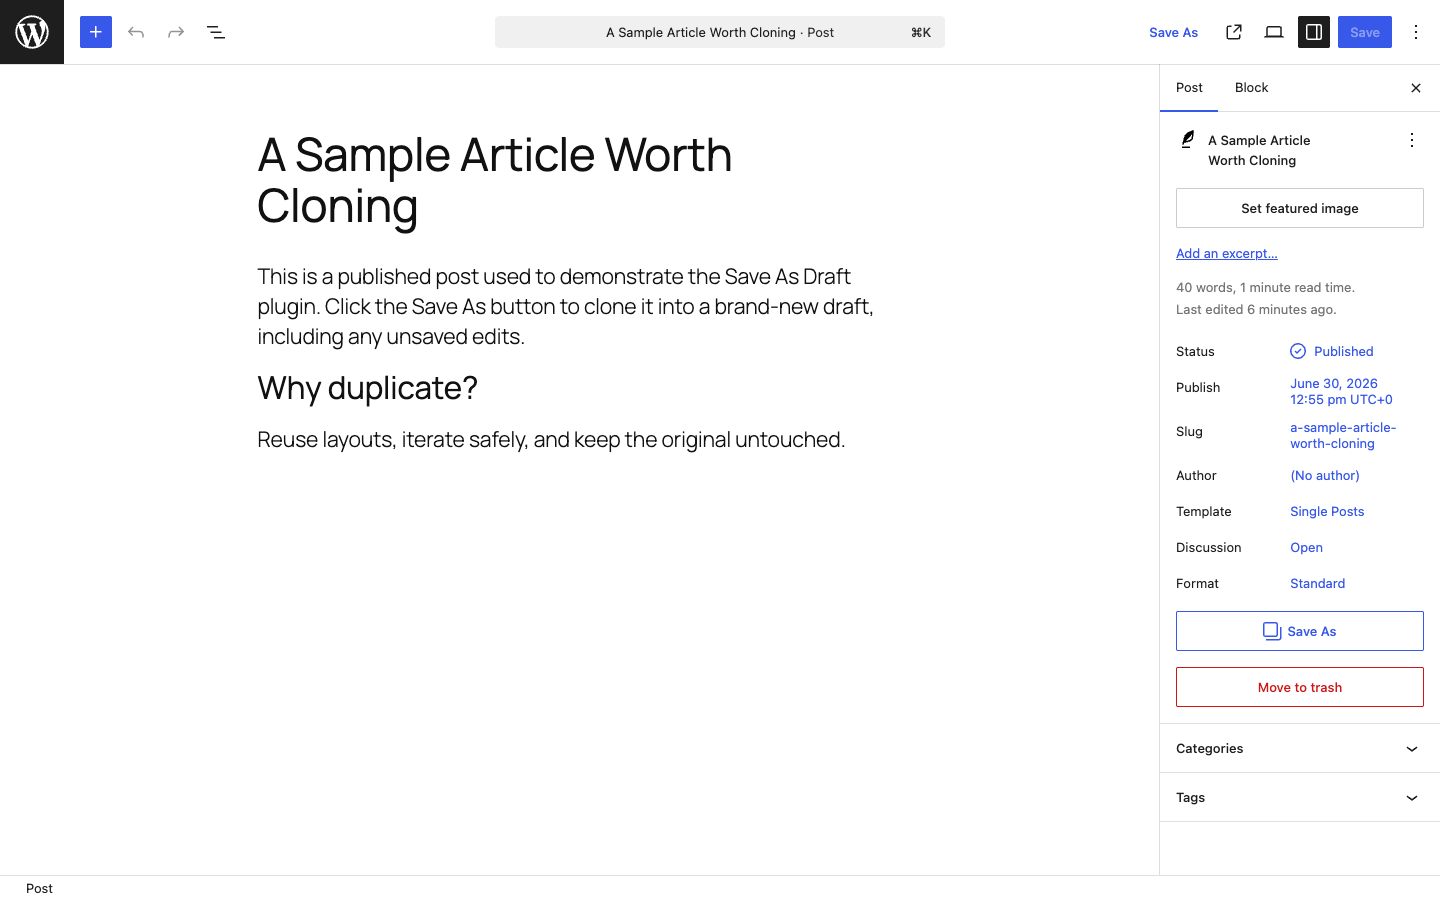
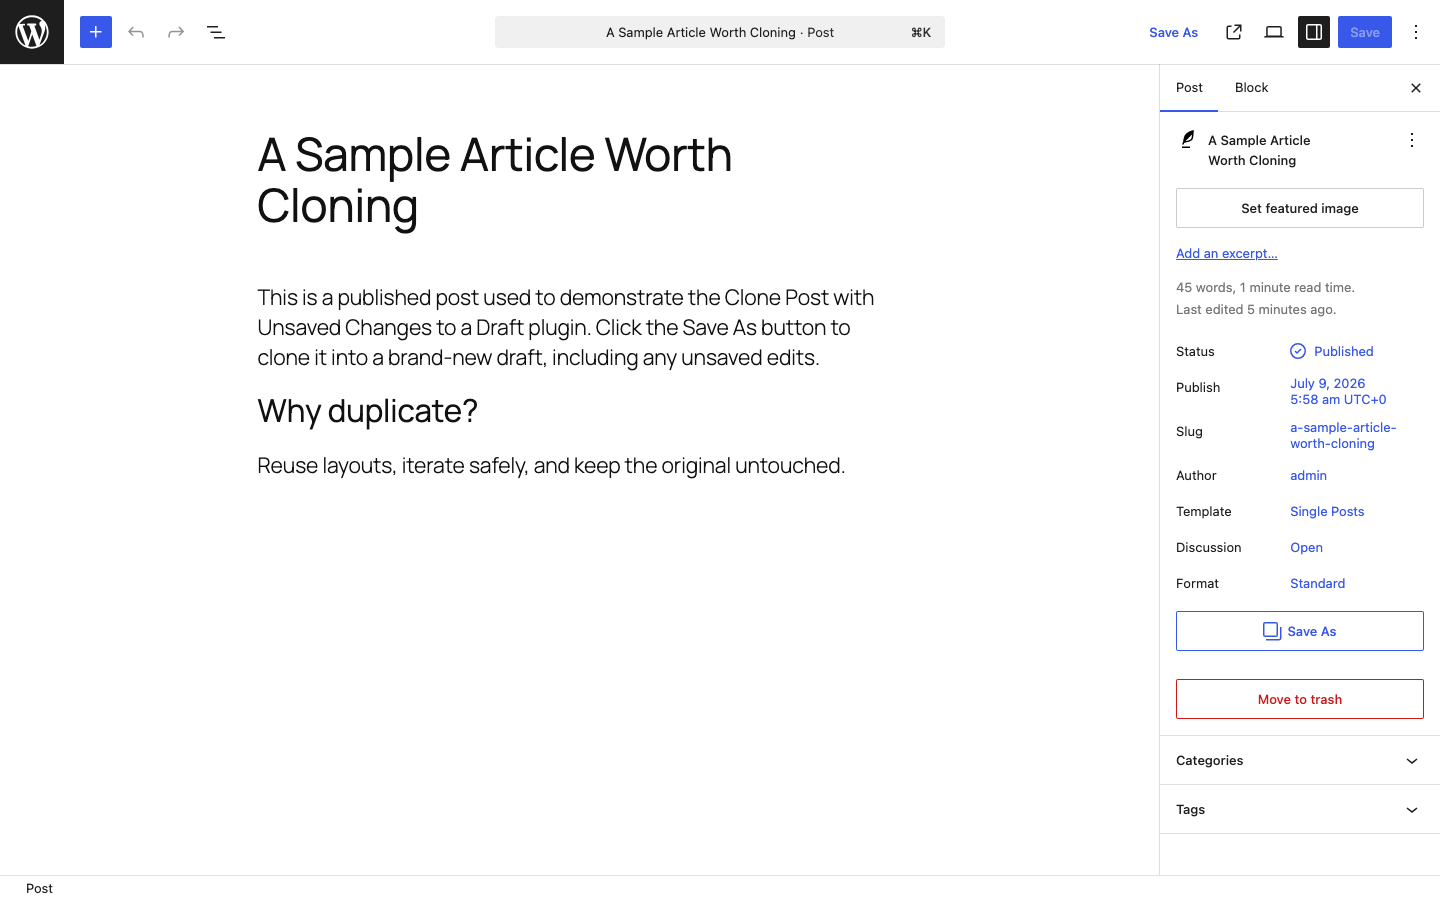
Fix sidebar button spacing and update screenshots with new plugin name

Changed region(s): [[0.1562, 0.28, 0.625, 0.5289], [0.8125, 0.7467, 0.9688, 0.9333], [0.9062, 0.4044, 0.9688, 0.4667]]

diff --git a/src/components/SaveAsPlugin.tsx b/src/components/SaveAsPlugin.tsx
@@ -102,7 +102,7 @@ export const SaveAsPlugin = () => {
                         icon={ copy }
                         onClick={ startSaveAs }
                         __next40pxDefaultSize
-                        style={ { width: '100%', justifyContent: 'center' } }
+                        style={ { width: '100%', justifyContent: 'center', marginBottom: '12px' } }
                     >
                         { label }
                     </Button>